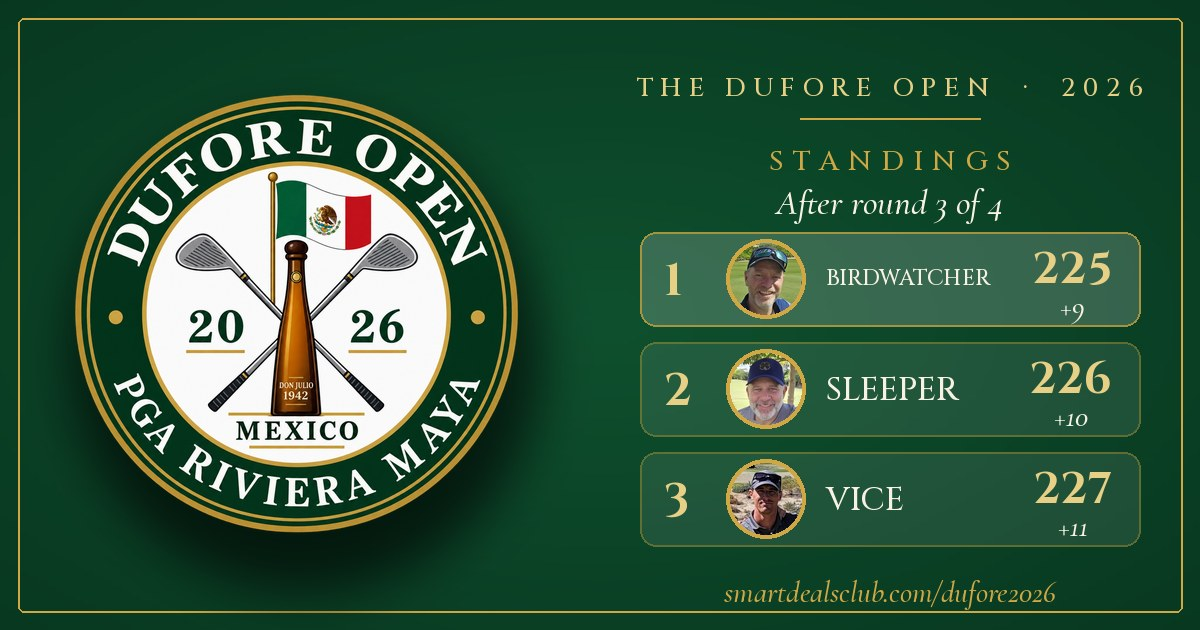
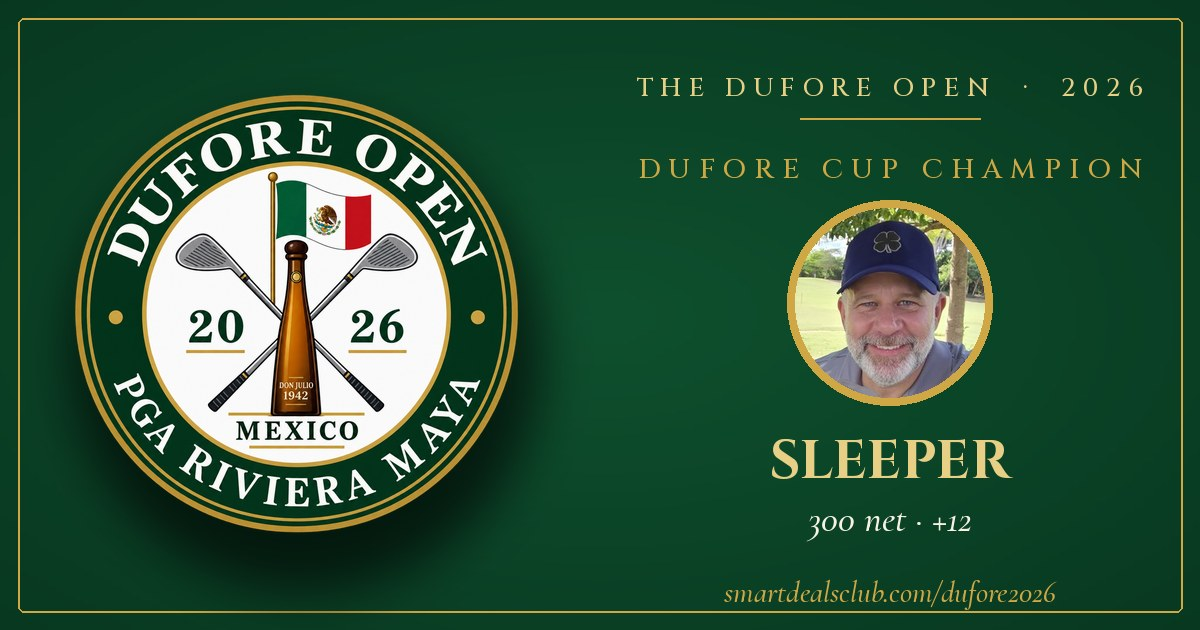
Dufore Open: final results, Sleeper wins the 2026 Dufore Cup (#52)
* Add Dufore Open 2026 teaser page with countdown

Claude-Session: https://claude.ai/code/session_01PxtoKeknrPEQGS1ZPt4kTL

* Teaser: add round one tee times and coming-soon icons

Claude-Session: https://claude.ai/code/session_01PxtoKeknrPEQGS1ZPt4kTL

* Teaser: frame spans full page height

Claude-Session: https://claude.ai/code/session_01PxtoKeknrPEQGS1ZPt4kTL

* Teaser: add tee time groups

Claude-Session: https://claude.ai/code/session_01PxtoKeknrPEQGS1ZPt4kTL

* Teaser: add PGA Riviera Maya venue logo

Claude-Session: https://claude.ai/code/session_01PxtoKeknrPEQGS1ZPt4kTL

* Teaser: drop duplicate venue text under logo

Claude-Session: https://claude.ai/code/session_01PxtoKeknrPEQGS1ZPt4kTL

* Teaser: remove round one eyebrow, add 4 rounds line

Claude-Session: https://claude.ai/code/session_01PxtoKeknrPEQGS1ZPt4kTL

* Teaser: add honorary starters portraits and handicap cards

Claude-Session: https://claude.ai/code/session_01PxtoKeknrPEQGS1ZPt4kTL

* Teaser: add The Cook and The BirdWatcher portraits

Claude-Session: https://claude.ai/code/session_01PxtoKeknrPEQGS1ZPt4kTL

* Teaser: add The Sleeper portrait

Claude-Session: https://claude.ai/code/session_01PxtoKeknrPEQGS1ZPt4kTL

* Teaser: add Italian Stallion to honorary starters

Claude-Session: https://claude.ai/code/session_01PxtoKeknrPEQGS1ZPt4kTL

* Dufore Open: standings, field, scoring rules and score data file

Claude-Session: https://claude.ai/code/session_01PxtoKeknrPEQGS1ZPt4kTL
[…]

Changed region(s): [[0.5242, 0.2413, 0.9558, 0.8746]]

diff --git a/dufore2026/index.html b/dufore2026/index.html
@@ -14,10 +14,10 @@
 <meta property="og:url" content="https://smartdealsclub.com/dufore2026/">
 <meta property="og:image:width" content="1200">
 <meta property="og:image:height" content="630">
-<meta name="twitter:image" content="https://smartdealsclub.com/dufore2026/share.jpg?v=cdb1af8b">
+<meta name="twitter:image" content="https://smartdealsclub.com/dufore2026/share.jpg?v=194a0a46">
 <meta property="og:title" content="Dufore Open 2026">
 <meta property="og:description" content="Something's brewing at PGA Riviera Maya. Tee off tomorrow, 9:00 AM.">
-<meta property="og:image" content="https://smartdealsclub.com/dufore2026/share.jpg?v=cdb1af8b">
+<meta property="og:image" content="https://smartdealsclub.com/dufore2026/share.jpg?v=194a0a46">
 <meta property="og:type" content="website">
 <meta name="twitter:card" content="summary_large_image">
 <link rel="icon" type="image/png" href="favicon.png">
@@ -595,6 +595,7 @@ html{-webkit-text-size-adjust:100%;text-size-adjust:100%}
 .tees h2.nx{margin-top:34px}
 .tee.tba b{white-space:normal;text-align:center;line-height:1.4}
 .tee.tba span{display:block;white-space:normal;text-align:center}
+.fin .count,.fin .clabel,.fin .teed{display:none!important}
 </style>
 </head>
 <body>
@@ -830,6 +831,7 @@ tick();
     var nx=null;(D.schedule||[]).forEach(function(x){var t=new Date(x.date+"T09:00:00-05:00").getTime();if(!nx&&t>Date.now())nx={t:t,x:x}});
     var cl=document.getElementById("clabel"),te=document.getElementById("tease");
     if(nx){var nr=(D.schedule||[]).indexOf(nx.x);if(cl)cl.textContent="Round "+RN[nr]+" tees off in";if(te)te.textContent="Round "+RN[nr]+" \u00b7 "+nx.x.label+" Nov "+nx.x.day+", 9:00 AM";if(window.__setT)window.__setT(nx.t)}
+    if(full===4){document.body.classList.add("fin");var wh=document.querySelector(".where");if(wh&&wh.lastChild&&wh.lastChild.nodeType===3)wh.lastChild.textContent="Mexico \u00b7 Nov 11\u201314, 2026";if(te)te.textContent="That's a wrap. Thank you all for a great Dufore Open.";if(cl)cl.textContent=""}
     // tee cards
     var tees=document.getElementById("tees");
     if(tees&&(TT||D.groups)){

diff --git a/dufore2026/tools/make_share.py b/dufore2026/tools/make_share.py
@@ -107,7 +107,15 @@ for p in d["players"]:
             if x == 1 and (ace is None or (ri, hi) < (ace[1], ace[2])):
                 ace = (p, ri, hi)
 
-if ace:
+champ = None
+if not ace and played and all(r["done"] == 4 for r in res):
+    best = min(r["total"] for r in played)
+    top = [r for r in played if r["total"] == best]
+    if len(top) == 1:
+        champ = top[0]
+if ace or champ:
+    if champ and not ace:
+        ace = (champ["p"], 0, 0)
     centered_spaced(150, "DUFORE CUP CHAMPION", font("cinzel", 28), GOLD, 8)
     try:
         ph = Image.open(os.path.join(ROOT, ace[0]["photo"])).convert("RGB").resize((190, 190), Image.LANCZOS)
@@ -121,7 +129,11 @@ if ace:
     except Exception:
         pass
     center_text(425, ace[0]["name"].upper(), font("cinzelb", 54), GOLDL)
-    center_text(495, "Hole in one \u00b7 Round %d, hole %d" % (ace[1] + 1, ace[2] + 1), font("corm", 38), CREAM)
+    if champ:
+        vsc = champ["total"] - PAR * 4
+        center_text(495, "%d net \u00b7 %s" % (champ["total"], ("E" if vsc == 0 else ("+%d" % vsc if vsc > 0 else "\u2212%d" % abs(vsc)))), font("corm", 38), CREAM)
+    else:
+        center_text(495, "Hole in one \u00b7 Round %d, hole %d" % (ace[1] + 1, ace[2] + 1), font("corm", 38), CREAM)
 elif not played:
     centered_spaced(165, "ROUND ONE", font("cinzel", 30), GOLD, 8)
     center_text(215, "Wed 11 Nov", font("cinzelb", 76), GOLDL)
